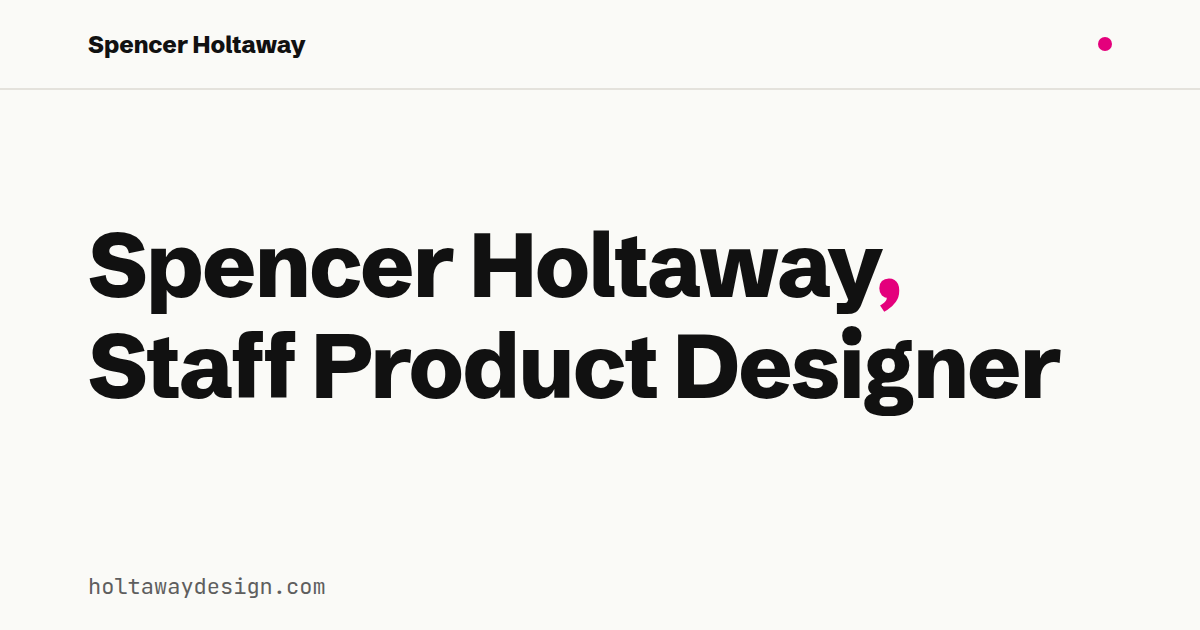
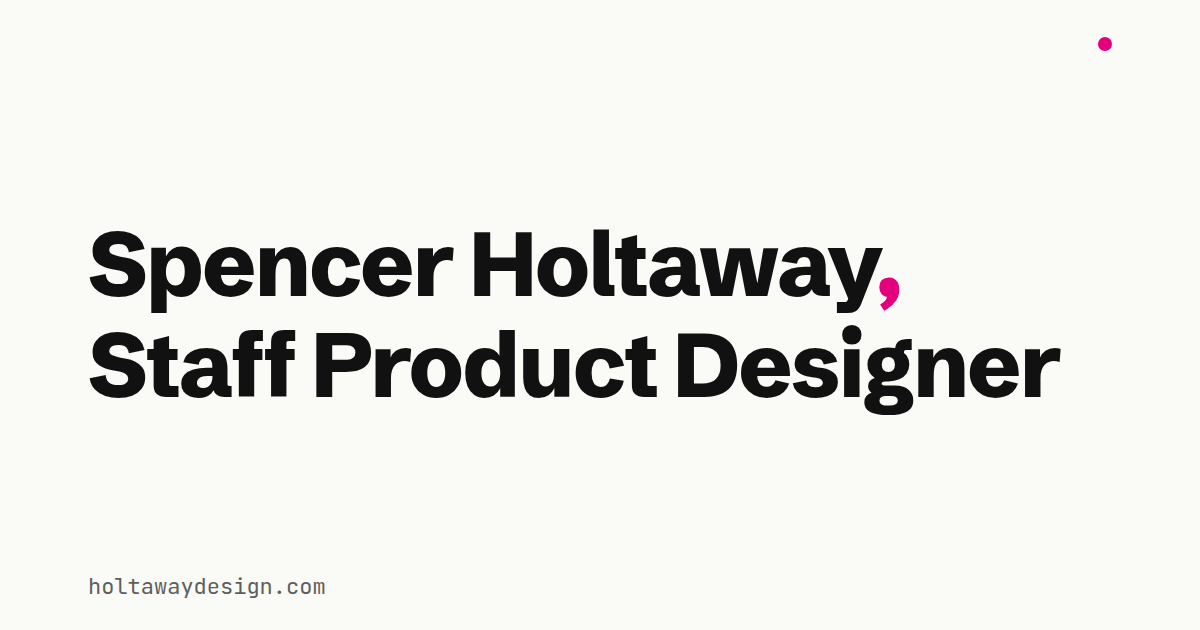
Homepage share image: drop the repeated name and header rule, keep the dot
Claude-Session: https://claude.ai/code/session_01Y7Z8H4umKgztkyQbrrtbzk

diff --git a/scripts/og-home.html b/scripts/og-home.html
@@ -7,14 +7,13 @@
   html,body{margin:0}
   body{width:1200px;height:630px;box-sizing:border-box;background:#FAFAF7;color:#111;-webkit-font-smoothing:antialiased;
     padding:0 88px;display:grid;grid-template-rows:auto 1fr auto;font-family:'Schibsted Grotesk',Helvetica,sans-serif}
-  header{height:88px;display:flex;align-items:center;justify-content:space-between;border-bottom:2px solid #E4E2DC;margin:0 -88px;padding:0 88px;
-    font-weight:800;font-size:24px;letter-spacing:-0.01em}
+  header{height:88px;display:flex;align-items:center;justify-content:flex-end}
   header i{width:14px;height:14px;border-radius:50%;background:#E4007C}
   h1{margin:0;align-self:center;font-weight:800;font-size:90px;white-space:nowrap;line-height:1.12;letter-spacing:-0.025em}
   h1 span{display:block}
   h1 em{font-style:normal;color:#E4007C}
   footer{height:88px;display:flex;align-items:center;font-family:'JetBrains Mono',monospace;font-size:22px;color:#5E5E5E}
 </style>
-<header><span>Spencer Holtaway</span><i></i></header>
+<header><i></i></header>
 <h1><span>Spencer Holtaway<em>,</em></span><span>Staff Product Designer</span></h1>
 <footer>holtawaydesign.com</footer>
